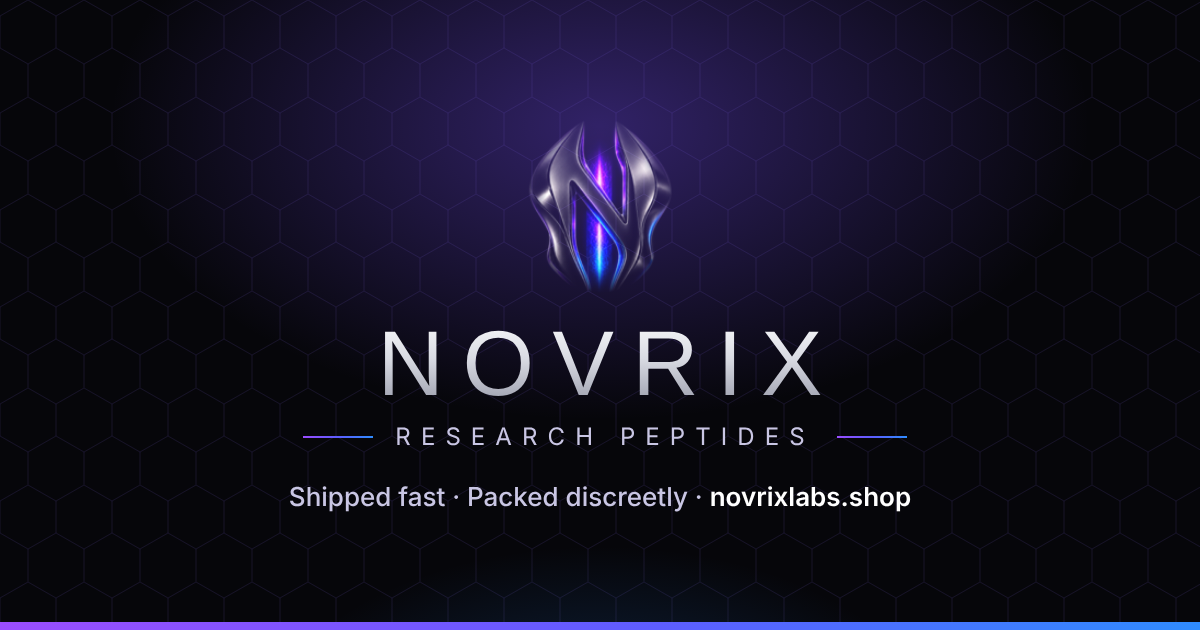
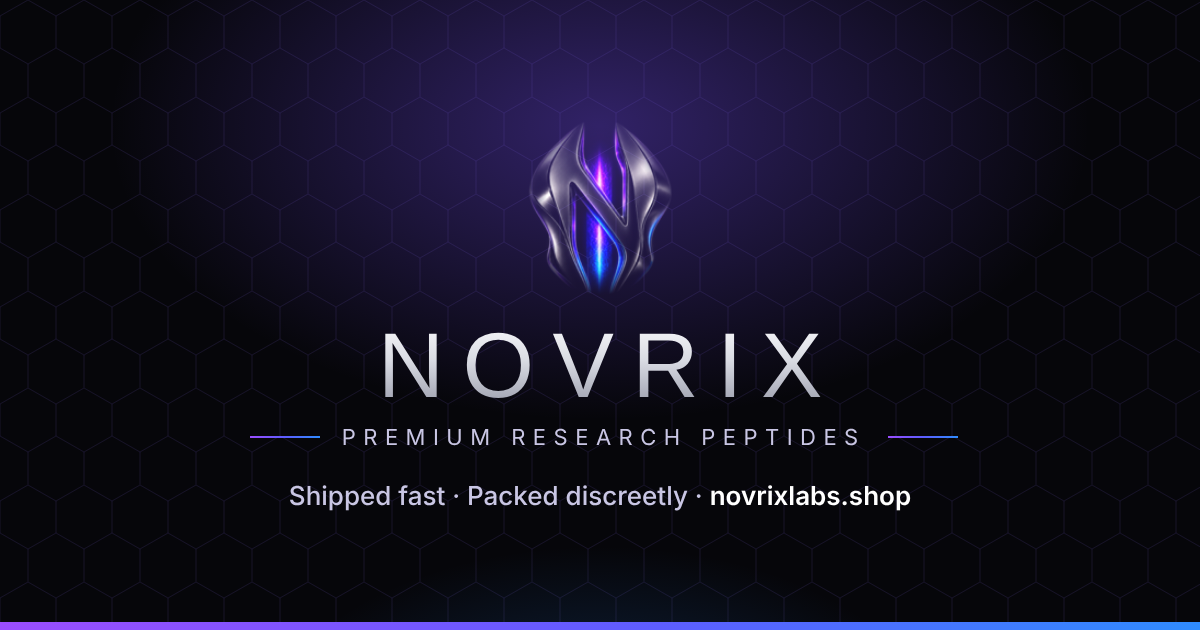
Premium Research Peptides tagline
Claude-Session: https://claude.ai/code/session_01HrXuEMqDCd21F1aGC7qbeW

diff --git a/index.html b/index.html
@@ -1,9 +1,9 @@
 <!doctype html><html><head><meta charset=utf8><meta name=viewport content="width=device-width,initial-scale=1,viewport-fit=cover"><style>:root{color-scheme:light;box-sizing:border-box;padding-top:env(safe-area-inset-top,0px);padding-bottom:env(safe-area-inset-bottom,0px)}html{scroll-padding-top:env(safe-area-inset-top,0px)}body{margin:0;padding:0;font:14px -apple-system,BlinkMacSystemFont,sans-serif;background:#fff;color:#000}img{max-width:100%}[hidden]:not([hidden=until-found i]){display:none!important}</style></head><body>
 <title>Novrix Labs</title>
-<meta name="description" content="Novrix Labs research peptides. COAs available upon request, same-day shipping, live availability.">
+<meta name="description" content="Novrix Labs premium research peptides. Lab reports posted for tested batches, same-day shipping, live availability.">
 <meta property="og:type" content="website">
 <meta property="og:site_name" content="Novrix Labs">
-<meta property="og:title" content="Novrix Labs · Research Peptides">
+<meta property="og:title" content="Novrix Labs · Premium Research Peptides">
 <meta property="og:description" content="Shipped fast, packed discreetly. Live availability, COAs on request, and Nov Creds on every order.">
 <meta property="og:url" content="https://novrixlabs.shop/">
 <meta property="og:image" content="https://novrixlabs.shop/og.png">
@@ -36,6 +36,7 @@ body{font-family:var(--f-body);font-size:15px;line-height:1.5;-webkit-font-smoot
 .hero h1{font-family:var(--f-brand);font-weight:400;font-size:clamp(1.9rem,7vw,2.8rem);letter-spacing:.18em;margin:8px 0 0;background:var(--chrome);-webkit-background-clip:text;background-clip:text;color:transparent;text-wrap:balance}
 .tag{display:flex;align-items:center;gap:12px;font-size:.72rem;letter-spacing:.32em;color:#c9c6e4;text-transform:uppercase}
 .tag::before,.tag::after{content:"";width:34px;height:1px;background:var(--grad)}
+@media (max-width:440px){.tag{letter-spacing:.2em;gap:8px;font-size:.68rem;white-space:nowrap}.tag::before,.tag::after{width:18px}}
 .updated{margin-top:10px;font-size:.8rem;color:var(--muted);display:inline-flex;align-items:center;gap:8px;border:1px solid var(--line);padding:5px 12px;border-radius:99px;background:rgba(15,15,23,.7)}
 .updated::before{content:"";width:7px;height:7px;border-radius:50%;background:var(--in);box-shadow:0 0 8px var(--in)}
 .cta{margin-top:14px;display:inline-flex;align-items:center;gap:8px;background:var(--grad);color:#fff;text-decoration:none;font-weight:600;padding:12px 22px;border-radius:12px;box-shadow:0 8px 26px rgba(110,80,255,.4)}
@@ -817,7 +818,7 @@ body::before{content:"";position:fixed;inset:0;z-index:-1;pointer-events:none;ba
 <header class="hero">
[1 lines of base64/hex data omitted]
     <h1>NOVRIX</h1>
-    <div class="tag" id="tag">Research Peptides</div>
+    <div class="tag" id="tag">Premium Research Peptides</div>
     <div class="updated">Availability updated Oct 29, 2026</div>
     <p class="lede">Shipped fast, packed discreetly. Lab reports posted for tested batches. 35+ compounds across metabolism, recovery, sleep, focus and longevity research.</p>
     <div class="stats"><div><b>Discreet</b><span>plain packaging</span></div><div><b>Same-day</b><span>shipping on most orders</span></div><div><b>~2-day</b><span>typical delivery</span></div><div><b>35+</b><span>compounds</span></div></div>

diff --git a/links.html b/links.html
@@ -26,6 +26,7 @@ main{max-width:460px;margin:0 auto;padding:calc(36px + env(safe-area-inset-top,0
 h1{font-family:"Michroma","Helvetica Neue",Arial,sans-serif;font-weight:400;font-size:1.7rem;letter-spacing:.2em;margin:10px 0 2px;background:var(--chrome);-webkit-background-clip:text;background-clip:text;color:transparent}
 .tag{display:flex;align-items:center;gap:10px;font-size:.68rem;letter-spacing:.32em;color:#c9c6e4;text-transform:uppercase}
 .tag::before,.tag::after{content:"";width:28px;height:1px;background:var(--grad)}
+@media (max-width:440px){.tag{letter-spacing:.2em;gap:8px;font-size:.66rem;white-space:nowrap}.tag::before,.tag::after{width:18px}}
 .sub{margin:12px 0 22px;color:var(--muted);font-size:.9rem}
 nav{width:100%;display:flex;flex-direction:column;gap:10px}
 a.l{display:flex;align-items:center;gap:14px;text-align:left;padding:14px 16px;border-radius:16px;border:1px solid var(--line);background:linear-gradient(180deg,rgba(255,255,255,.03),transparent 60%),var(--panel);color:var(--ink);text-decoration:none;transition:border-color .18s ease,transform .18s ease}
@@ -60,7 +61,7 @@ footer a{color:#c9b3ff}
 <main>
   <img class="logo" src="logo.png" alt="Novrix Labs logo" width="137" height="160">
   <h1>NOVRIX</h1>
-  <div class="tag">Research Peptides</div>
+  <div class="tag">Premium Research Peptides</div>
   <p class="sub">Shipped fast, packed discreetly.</p>
   <nav aria-label="Novrix links">
     <a class="l pri" href="https://novrixlabs.shop/#shop">
